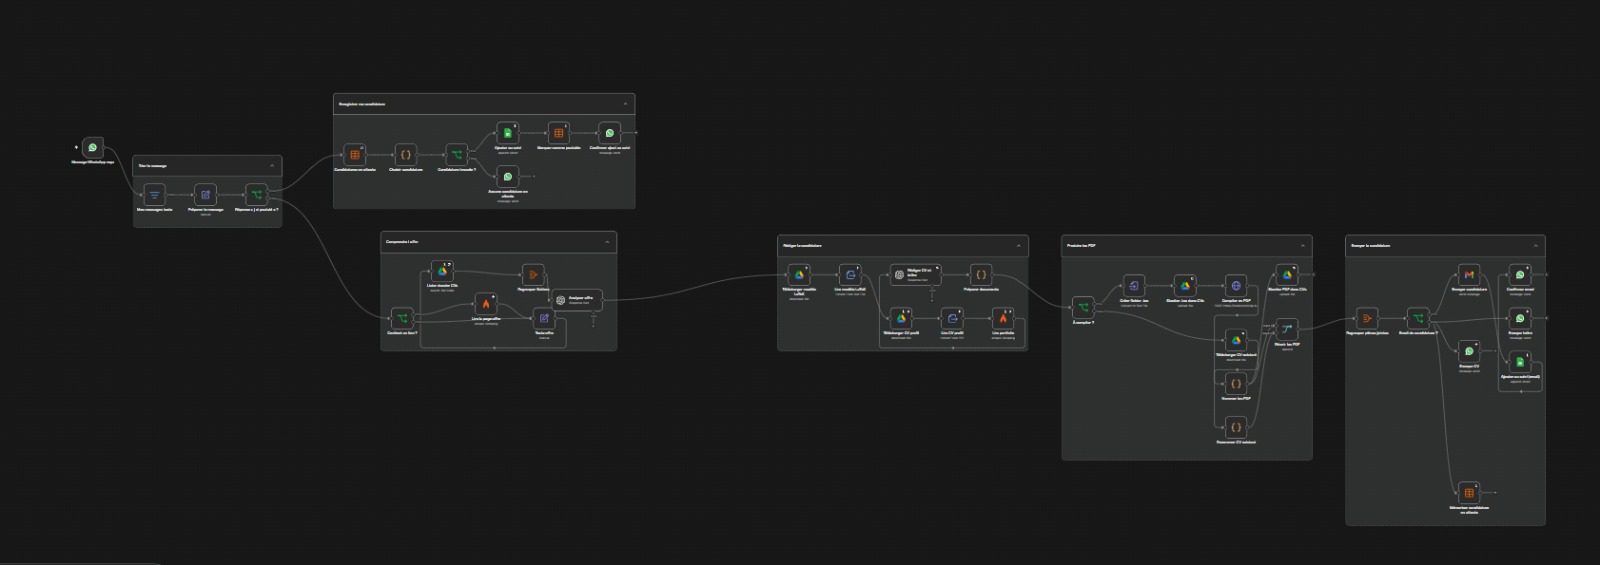
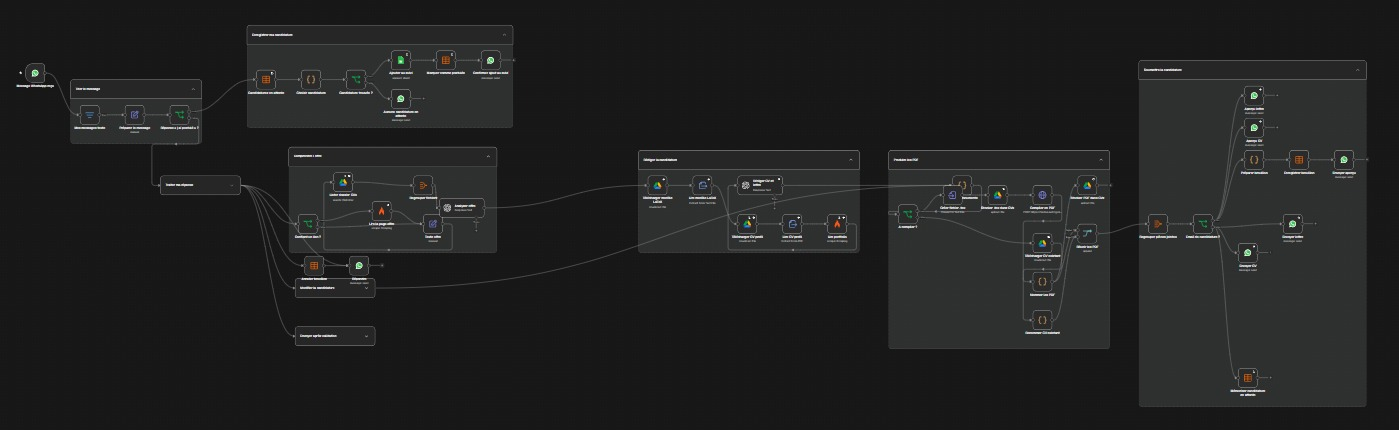
feat: workflow de candidature WhatsApp avec validation avant envoi, nouvelle image et description

Changed region(s): [[0.4303, 0.1814, 0.9836, 0.9674], [0.0, 0.0605, 0.3996, 0.6953], [0.2152, 0.7558, 0.2459, 0.786]]

diff --git a/src/data/content.js b/src/data/content.js
@@ -283,8 +283,8 @@ const allFeaturedProjects = [
         accent: "#25D366",
         type: { fr: "Automatisation · n8n, IA & LaTeX", en: "Automation · n8n, AI & LaTeX" },
         oneLiner: {
-            fr: "Un lien ou un texte d'offre envoyé sur WhatsApp suffit : CV et lettre personnalisés en PDF, candidature par Gmail ou WhatsApp, archivage et suivi centralisé.",
-            en: "Send a job posting link or text on WhatsApp: receive tailored PDF résumés and cover letters, apply via Gmail or WhatsApp, and archive and track every application.",
+            fr: "Un lien ou un texte d'offre envoyé sur WhatsApp suffit : CV et lettre sur mesure en PDF, validation sur WhatsApp avant chaque envoi par Gmail, archivage et suivi centralisé.",
+            en: "Send a job posting link or text on WhatsApp: receive a tailored résumé and cover letter as PDFs, approve them on WhatsApp before anything goes out via Gmail, and archive and track every application.",
         },
         stack: ["n8n", "OpenAI", "WhatsApp Cloud API", "Gmail", "Google Drive", "Google Sheets", "LaTeX", "Firecrawl"],
         images: ["images/projects/candidature_whatsapp/workflow.png"],
@@ -294,28 +294,26 @@ const allFeaturedProjects = [
                 en: "Tailoring a résumé, writing a cover letter, sending the documents and updating a tracker takes time for every internship or job application. I designed this n8n workflow to automate these steps from WhatsApp, using only my real experience.",
             },
             solution: {
-                fr: "J'envoie le lien ou le texte d'une offre sur WhatsApp. Le workflow analyse le poste, l'entreprise, la ville, les compétences clés et l'email de candidature avec un modèle OpenAI. Il lit mon profil à partir de mes CV et de mon portfolio, puis génère un CV adapté et une lettre personnalisée à partir de mon template LaTeX, compilés en PDF. Si une adresse email figure dans l'offre, Gmail envoie la candidature avec les deux pièces jointes. Sinon, je reçois les PDF sur WhatsApp pour postuler moi-même et je confirme avec « j'ai postulé ». Dans les deux cas, les documents sont archivés dans Google Drive et la candidature est enregistrée dans Google Sheets avec une date de relance à J+14.",
-                en: "I send a job posting link or text on WhatsApp. An OpenAI model extracts the role, company, city, key skills and application email. The workflow reads my profile from my résumés and portfolio, then uses my LaTeX template to produce a tailored résumé and personalized cover letter, compiled as PDFs. If the posting includes an email address, Gmail sends the application with both attachments. Otherwise, I receive the PDFs on WhatsApp, apply myself and confirm with “j'ai postulé”. In both cases, documents are archived in Google Drive and the application is logged in Google Sheets with a follow-up date 14 days later.",
+                fr: "J'envoie le lien ou le texte d'une offre sur WhatsApp, et le système prépare tout le dossier. Il analyse l'offre avec un modèle OpenAI : poste, entreprise, ville, compétences clés et email de candidature. Il lit aussi mon profil réel à partir de mes CV et de mon portfolio. À partir de mon template LaTeX, il génère ensuite un CV adapté à l'offre et une lettre de motivation personnalisée, puis les compile en PDF. Si l'offre indique une adresse email, rien ne part sans mon accord : je reçois sur WhatsApp le CV, la lettre, le destinataire, l'objet et le contenu du mail, et je réponds « ok » pour l'envoyer par Gmail avec les deux pièces jointes. Si quelque chose ne me convient pas, je l'écris simplement dans ma réponse : le système corrige, recompile les documents et me renvoie un nouvel aperçu à valider. Si l'offre ne donne pas d'adresse, je reçois le CV et la lettre sur WhatsApp pour postuler moi-même, puis je réponds « j'ai postulé ». Dans les deux cas, les documents sont archivés dans Google Drive et la candidature est ajoutée à mon tableau de suivi Google Sheets, avec une date de relance à J+14.",
+                en: "I send a job posting link or text on WhatsApp, and the system prepares the whole application. An OpenAI model analyzes the posting: role, company, city, key skills and application email. It also reads my real profile from my résumés and portfolio. Using my LaTeX template, it then generates a résumé tailored to the posting and a personalized cover letter, and compiles them as PDFs. If the posting includes an email address, nothing goes out without my approval: I receive the résumé, cover letter, recipient, subject and email body on WhatsApp, and reply “ok” to send it via Gmail with both attachments. If something isn't right, I simply say so in my reply: the system makes the correction, recompiles the documents and sends me a new preview to approve. If the posting has no address, I receive the résumé and cover letter on WhatsApp to apply myself, then reply “j'ai postulé”. In both cases, the documents are archived in Google Drive and the application is added to my Google Sheets tracker, with a follow-up date 14 days later.",
             },
             features: [
-                { fr: "Déclenchement depuis WhatsApp avec le lien ou le texte d'une offre de stage ou d'emploi.", en: "Start from WhatsApp with an internship or job posting link or text." },
-                { fr: "Analyse de l'offre : poste, entreprise, ville, compétences clés et adresse email de candidature.", en: "Extract the role, company, city, key skills and application email from the posting." },
-                { fr: "CV et lettre sur mesure, rédigés uniquement à partir de mes expériences réelles et compilés en PDF avec LaTeX.", en: "Tailored résumés and cover letters grounded only in my real experience and compiled as PDFs with LaTeX." },
-                { fr: "Envoi automatique par Gmail avec les deux pièces jointes, nommées pour chaque entreprise.", en: "Automatic Gmail delivery with both attachments, named for each company." },
-                { fr: "Sans email dans l'offre : réception des documents sur WhatsApp, candidature manuelle et confirmation « j'ai postulé ».", en: "Without an application email: receive documents on WhatsApp, apply manually and confirm with “j'ai postulé”." },
-                { fr: "Archivage dans Google Drive et suivi dans Google Sheets avec une date de relance à J+14.", en: "Archive documents in Google Drive and track applications in Google Sheets with a follow-up date 14 days later." },
-                { fr: "Nouvelles tentatives automatiques en cas d'erreur passagère d'un service.", en: "Automatic retries when a service encounters a transient error." },
+                { fr: "Un CV et une lettre sur mesure à chaque offre, rédigés à partir de mes vraies expériences.", en: "A tailored résumé and cover letter for every posting, written from my real experience." },
+                { fr: "Une validation sur WhatsApp avant chaque envoi par email, avec des modifications demandées en langage naturel, autant de fois que nécessaire.", en: "Approval on WhatsApp before every email goes out, with changes requested in natural language, as many times as needed." },
+                { fr: "Un envoi sécurisé : une réponse ambiguë ne déclenche jamais l'envoi, et un double « ok » ne produit qu'un seul mail.", en: "Safe sending: an ambiguous reply never triggers an email, and a double “ok” sends only one." },
+                { fr: "Un suivi centralisé de toutes mes candidatures.", en: "Centralized tracking of all my applications." },
+                { fr: "Des pièces jointes nommées pour chaque entreprise, et de nouvelles tentatives automatiques en cas d'erreur passagère d'un service.", en: "Attachments named for each company, and automatic retries when a service hits a transient error." },
             ],
             architecture: {
-                fr: "n8n orchestre le workflow : réception du message via WhatsApp Cloud API, extraction du contenu des offres avec Firecrawl et analyse avec OpenAI. Les CV et le portfolio fournissent le profil de référence pour la génération LaTeX. XeLaTeX / pdfLaTeX assurent la compilation des PDF. Le flux se sépare ensuite entre l'envoi par Gmail et la remise des documents sur WhatsApp, avant l'archivage Google Drive et la mise à jour du suivi Google Sheets. La confirmation « j'ai postulé » permet de suivre aussi les candidatures envoyées manuellement.",
-                en: "n8n orchestrates the workflow: WhatsApp Cloud API receives messages, Firecrawl extracts job posting content and OpenAI analyzes it. My résumés and portfolio provide the reference profile for LaTeX generation. XeLaTeX / pdfLaTeX compile the PDFs. The workflow then branches into Gmail delivery or document delivery on WhatsApp, followed by Google Drive archiving and Google Sheets tracking. The “j'ai postulé” confirmation also tracks applications sent manually.",
+                fr: "n8n orchestre le workflow : réception du message via WhatsApp Cloud API, extraction du contenu des offres avec Firecrawl et analyse avec OpenAI. Les CV et le portfolio fournissent le profil de référence pour la génération LaTeX. XeLaTeX / pdfLaTeX assurent la compilation des PDF. Le flux se sépare ensuite : avec une adresse email, l'aperçu part sur WhatsApp et l'état de la validation est conservé dans les Data Tables de n8n jusqu'à l'envoi par Gmail ; sans adresse, les documents sont remis sur WhatsApp et la réponse « j'ai postulé » enregistre la candidature. Dans les deux cas, Google Drive archive les documents et Google Sheets tient le suivi.",
+                en: "n8n orchestrates the workflow: WhatsApp Cloud API receives messages, Firecrawl extracts job posting content and OpenAI analyzes it. My résumés and portfolio provide the reference profile for LaTeX generation. XeLaTeX / pdfLaTeX compile the PDFs. The workflow then branches: with an email address, the preview goes out on WhatsApp and n8n Data Tables hold the approval state until Gmail sends the application; without one, the documents are delivered on WhatsApp and the “j'ai postulé” reply logs the application. In both cases, Google Drive archives the documents and Google Sheets handles tracking.",
             },
             takeaway: {
-                fr: "Relier messagerie, IA, génération documentaire et outils de suivi dans un workflow de candidature complet, avec des documents personnalisés fondés sur mon parcours réel.",
-                en: "Connecting messaging, AI, document generation and tracking tools into a complete application workflow, with personalized documents grounded in my real background.",
+                fr: "Relier messagerie, IA, génération documentaire et outils de suivi dans un workflow de candidature complet, avec des documents fondés sur mon parcours réel et une validation de ma part avant chaque envoi.",
+                en: "Connecting messaging, AI, document generation and tracking tools into a complete application workflow, with documents grounded in my real background and my approval before anything is sent.",
             },
             stackGroups: [
-                { label: { fr: "Orchestration", en: "Orchestration" }, items: "n8n" },
+                { label: { fr: "Orchestration", en: "Orchestration" }, items: "n8n · Data Tables" },
                 { label: { fr: "Analyse des offres", en: "Posting analysis" }, items: "OpenAI · Firecrawl" },
                 { label: { fr: "Messagerie & envoi", en: "Messaging & delivery" }, items: "WhatsApp Cloud API · Gmail" },
                 { label: { fr: "Génération PDF", en: "PDF generation" }, items: "LaTeX · XeLaTeX / pdfLaTeX" },
